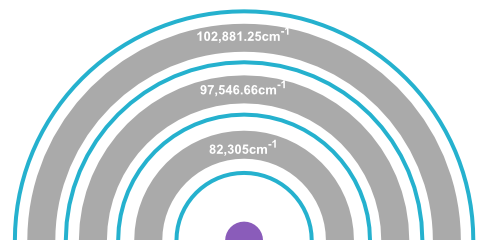
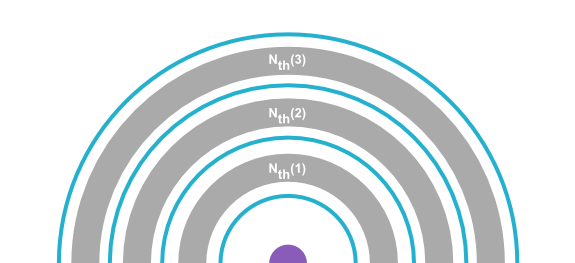
pics

diff --git a/hypothesis.md b/hypothesis.md
@@ -22,7 +22,7 @@
 정리하자면, 입자의 공간은 분리될 수 있으며, 입자는 물리적으로 분리된 두 공간을 자유로이 넘나들며, 입자의 관점에서 봤을 때는 여전히 한 공간에서 움직이고 있다. 그렇다면 전자의 공간은 우리가 아는 좌표계로서의 공간이 아닌 다른 무언가이다. 분리될 수 있지만 여전히 연결된 새로운 공간이다. 이를 에테르(`ether`)라 부르고, 우리가 이전에 입자라고 생각해왔던 것을 스파클(`sparkle`)이라 부르기로 하자. 확률 공간을 입자의 일부로 보는 가설은 이제 물질이 에테르와 스파클의 합성체라는 가설이 되었다.
 
 <p align="center">
- <img src="./images/pic4.png">
+ <img src="./images/pic7.png">
 </p>
 
 <p align="center">에테르와 스파클</p>
@@ -32,7 +32,7 @@
 앞선 가설에서 전자는 공간을 가지고 있고 전자의 스파클은 그 공간 속에 속박되어 있다고 보았다. 그렇다면 광자는 공간이 없는 스파클이 아닐까? 이렇게 가정한다면 에테르는 질량을 가지며, 스파클을 광자, 혹은 그에 준하는 물질로 가정할 수 있다. 전자에서 에테르의 해당하는 광자의 공간은 우주 전체이고 그 속력은 관성계와 상관없이 불변한다. 반면, 전자 속 스파클의 우주는 그가 속해있는 에테르이다. 질량에 묶여있는 스파클은 광자에 비해 더 느린 속력을 가질 것이다. 광자가 다른 물질에 비해 불변의 속력을 가진 것은 독립적 스파클이 우주라는 공간 속에서 가지는 특성일 것이며, 전자 속의 스파클은 전자 에테르 속에서 역시 동일한 성질로 존재할 것이다.
 
 <p align="center">
- <img src="./images/pic4.png">
+ <img src="./images/pic8.png">
 </p>
 
 <p align="center">전자와 광자</p>
@@ -51,7 +51,7 @@
 
 <p align="center">보어의 원자 모형</p>
 
-보어의 원자 모형에서는 특정 파장의 광자(에너지)를 흡수한 전자는 그 궤도가 `n`이라는 정수만큼 증가하며, 해당 파장의 광자를 방출할 때 궤도는 감소한다. 여기서 에테르 독립적 스파클인 광자가 질량을 가진 스파클 독립적 에테르로 변화하여 궤도 사이에 들어가는 것으로 생각의 틀을 바꿔보도록 하자.
+보어의 원자 모형에서는 특정 파장의 광자(에너지)를 흡수한 전자는 그 궤도가 n이라는 정수만큼 증가하며, 해당 파장의 광자를 방출할 때 궤도는 감소한다. 여기서 에테르 독립적 스파클인 광자가 질량을 가진 스파클 독립적 에테르로 변화하여 궤도 사이에 들어가는 것으로 생각의 틀을 바꿔보도록 하자.
 
 <p align="center">
  <img src="./images/pic2.png">

diff --git a/energy.md b/energy.md
@@ -46,12 +46,6 @@ $$\dfrac{1}{\lambda} = R(\dfrac{1}{m^2} - \dfrac{1}{n^2}) \hspace{10pt} \\\{ R=1
 
 여기서 에너지를 구할 때 상수값들을 제외하면 N<sub>th</sub>(n)만이 변화되는 양임을 알 수 있다. 즉, 이 부분에 어떤 값이 들어가는지에 따라 에너지의 값이 변하게 된다. 이 부분을 에너지 계수(EC)라고 부르기로 하자.
 
-<p align="center">
- <img src="./images/pic5.png">
-</p>
-
-<p align="center">빛-에테르가 가진 EC</p>
-
 ### 빛-에테르의 방출 에너지
 
 빛-에테르가 일정한 파장을 가지고 있다면 그 에너지를 구할 수 있을 것이다. 빛의 에너지는 E = hc / λ의 식으로 구할 수 있다. 여기서 λ는 앞서 구한 파수를 의미한다. 우리는 파수를 구하는 식을 이미 알고 있으며, 이렇게 구한 값은 J의 단위를 가진다. 이를 eV를 단위로 갖는 에너지 값은 아래의 수식과 같으며, 이를 정리하면 아래의 표와 같다. 여기서 1 / (n - 1)<sup>2</sup> - 1 / n<sup>2</sup>를 함수 N<sub>th</sub>(n)이라 하자. 이 함수는 앞으로도 계속 쓰일 것이다.
@@ -59,6 +53,13 @@ $$\dfrac{1}{\lambda} = R(\dfrac{1}{m^2} - \dfrac{1}{n^2}) \hspace{10pt} \\\{ R=1
 $$N_{th}(n) = \dfrac{1}{(n-1)^2} - \dfrac{1}{n^2}$$
 
 <p align="center">N<sub>th</sub>(n)</p>
+
+
+<p align="center">
+ <img src="./images/pic5.png">
+</p>
+
+<p align="center">빛-에테르가 가진 EC</p>
 
 $$E = Rhc(N_{th}(n))\cdot6.242\cdot10^{32}$$
 

diff --git a/atomic_spectra_data.md b/atomic_spectra_data.md
@@ -2,12 +2,16 @@
 
 지금까지는 보어의 원자모형을 기준으로 가설을 검증했었다. 그러나 보어 원자모형은 더 이상 유효하지 않다. 양자물리학이 밝혀낸 것은 원자에 속한 전자가 에너지를 흡수해서 오비탈이라는 형상으로 나타난다는 것이다.
 
-<p align="center">[전자 오비탈](https://en.wikipedia.org/wiki/Atomic_orbital)</p>
+<p align="center">
+ <img src="./images/pic9.png">
+</p>
+
+<p align="center">전자 오비탈 [출처](https://en.wikipedia.org/wiki/Atomic_orbital)</p>
 
 오비탈의 모양은 앞서 보어 원자모형에서도 등장한 주양자수 n과 부양자수 l, 그리고 자기양자수인 m에 의해 결정된다. n의 증가는 보어 원자모형과 같이 원형의 자릿수를 증가시킨다. l의 증가는 원형 하나가 없어지면서 선형의 마디가 생겨난다. 자기양자수는 각도를 결정한다.
 
 <p align="center">
- <img src="./images/pic5.png">
+ <img src="./images/pic10.png">
 </p>
 
 <p align="center">에테르의 관점으로 본 오비탈</p>
